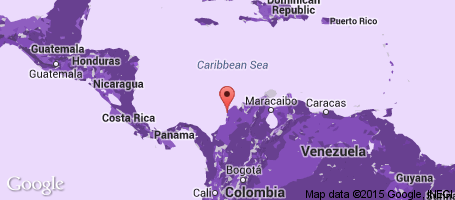
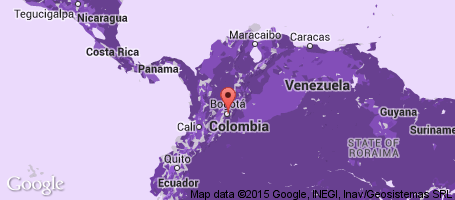
Added Cartagena post, updated location.

diff --git a/app/blog/20150412-the-colonial-charm-of-cartagena.md b/app/blog/20150412-the-colonial-charm-of-cartagena.md
@@ -1,0 +1,32 @@
+---
+pages      : all
+slug       : the-colonial-charm-of-cartagena
+title      : The Colonial Charm of Cartagena
+date       : !!str 2015-04-12T22:30:00-05:00
+categories : [ Day Trips ]
+tags       : [ ]
+geography  :
+  - id        : 3687238
+    name      : Cartagena
+    coord     : [ -75.51444, 10.39972 ]
+    continent : { code: SA, name: &continent3687238 South America }
+    country   : { code: CO, name: &country3687238 Colombia }
+    transport : flight
+continents:
+  - *continent3687238
+countries:
+  - *country3687238
+archives:
+  - !!str ''
+  - !!str 2015
+  - !!str 2015-04
+---
+
+Our final stop of our journey through South America was Cartagena, in the Caribbean region of Colombia. We spent four days in this city, characterized by its colonial architecture as it once was an important city for the Spanish invaders. The narrow cobblestone streets, colorful buildings with balconies, and many small squares make it a charming and walkable city.
+
+Cartagena is a very lively city and music can be heard from many corners, especially at nighttime with Wednesday surprisingly being the most busiest night. Even though the upscale neighborhood of Bocagrande has a beach, if you are looking for the best beach around, you have to head one hour south to Playa Blanca.
+
+## Playa Blanca
+Getting to Playa Blanca is hard, as it involves taking a boat across potentially rough waters, and enduring a stop at an aquarium before heading to the beach. Luckily, our hostel offered a direct shuttle bus for 20$ round trip (a bit cheaper than the boat as one must pay “harbor tax”, and much cheaper than a taxi), so we could enjoy the beach for much longer.
+
+Once you get to the beach we went to the north side, which is less crowded. This also means less vendors walking up to you trying to sell anything from necklaces to massages to food. We negotiated down to 8$ for a cabana, which gave us some protection from the sun. This, in combination with a light breeze coming from the sea made it quite comfortable. The beer helped too.
